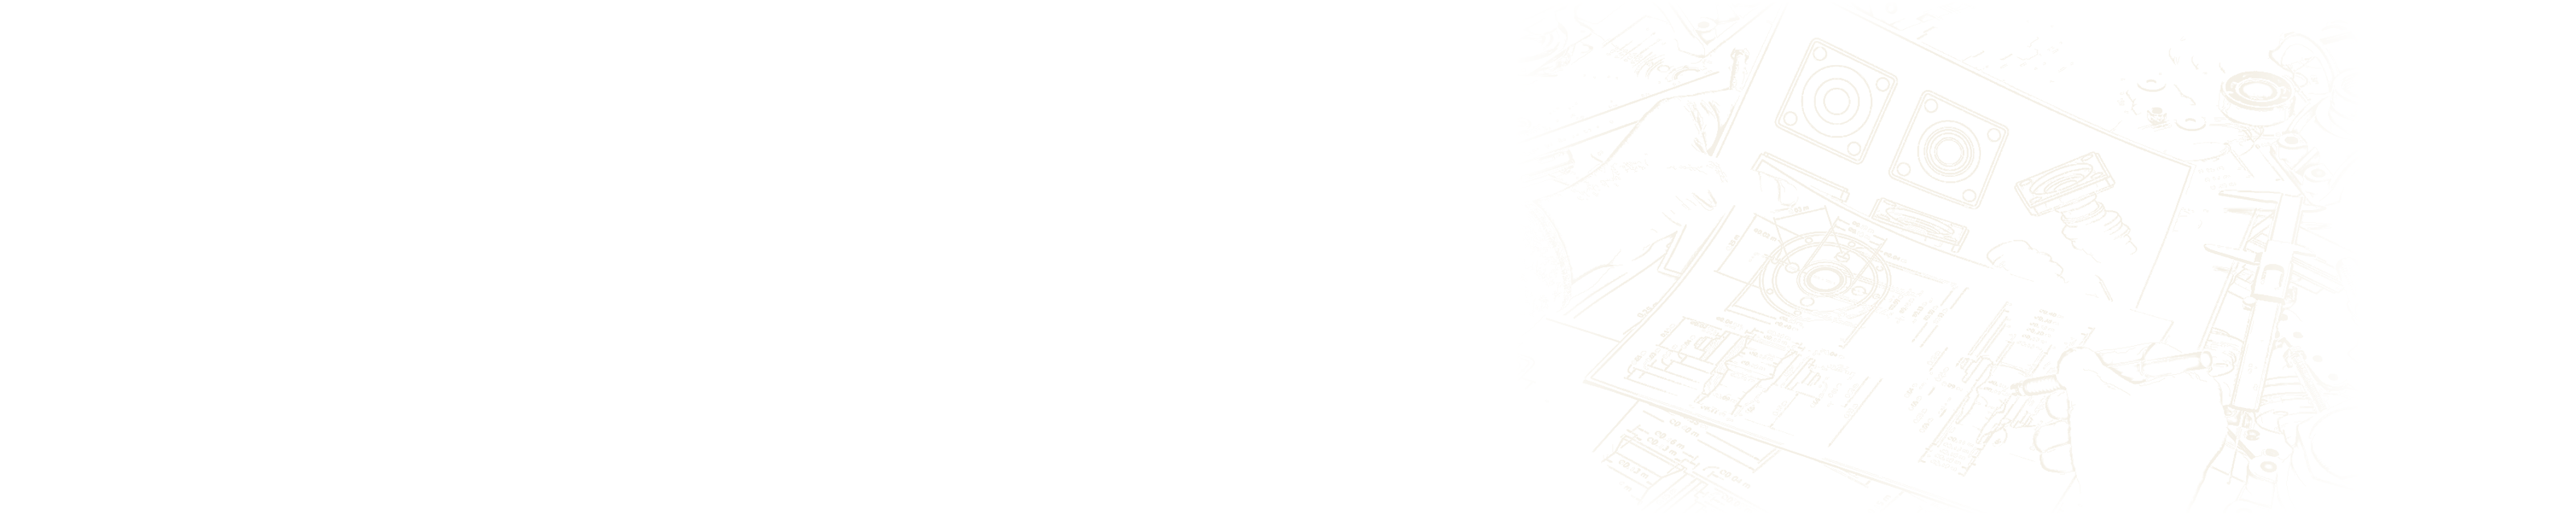
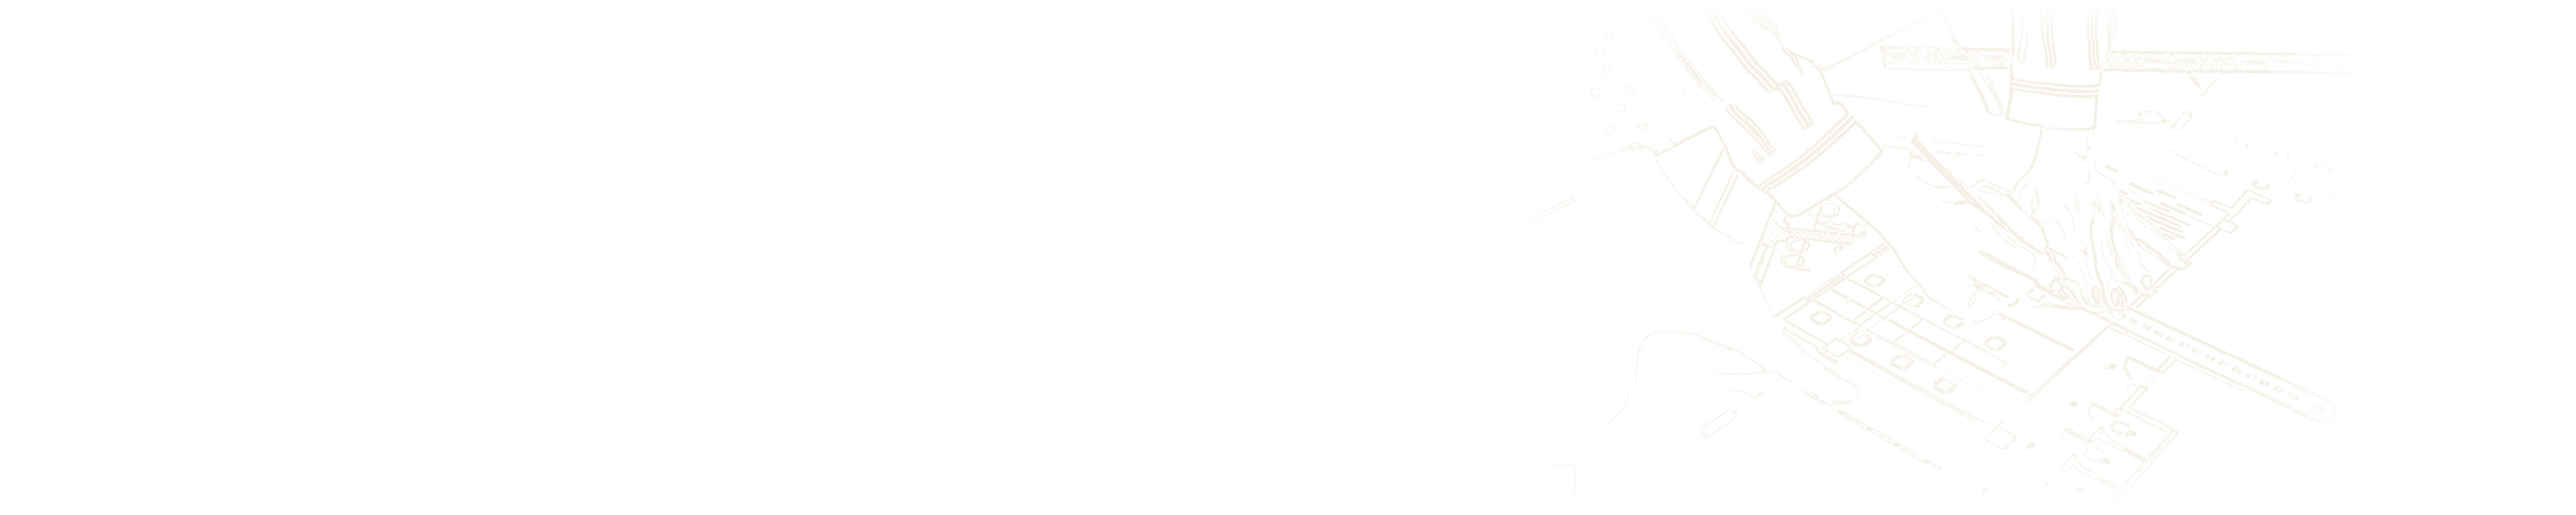
Documenti: testata con le mani al lavoro sulla pianta
Claude-Session: https://claude.ai/code/session_01FEmfWS9QLMyjaC9iCuPSy9

diff --git a/src/lib/fondi.ts b/src/lib/fondi.ts
@@ -34,5 +34,5 @@ export const DISEGNO_CLIENTI = "/brand/riunione.webp";
 /** Disegno della testata degli Immobili: schizzo prospettico di una casa a due volumi. */
 export const DISEGNO_IMMOBILI = "/brand/casa.webp";
 
-/** Disegno della testata dei Documenti: tavole tecniche sul tavolo, a tratti. */
+/** Disegno della testata dei Documenti: mani al lavoro su una pianta, con riga e matita, a tratti. */
 export const DISEGNO_DOCUMENTI = "/brand/tavole.webp";
